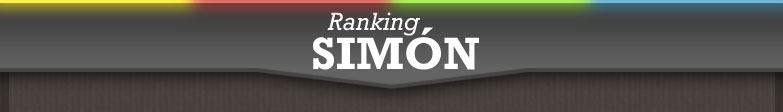
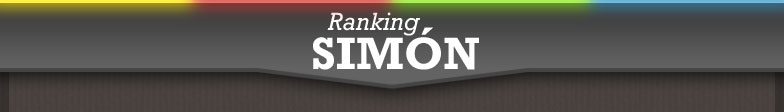
ramon y buzz

Changed region(s): [[0.3985, 0.3482, 0.613, 0.6161], [0.3985, 0.1339, 0.5517, 0.3482]]

diff --git a/ranking_ramon.php b/ranking_ramon.php
@@ -37,7 +37,7 @@
   fjs.parentNode.insertBefore(js, fjs);
 }(document, 'script', 'facebook-jssdk'));</script>
  <div>
- 	<div id="cabecera" style="background:url(https://growing-dusk-1846.herokuapp.com/images/cabecera_ramon.jpg) 0 0 no-repeat; width:784px; text-align: center;">
+ 	<div id="cabecera" style="background:url(https://growing-dusk-1846.herokuapp.com/images/cabecera_simon.jpg) 0 0 no-repeat; width:784px; text-align: center;">
 		<div style="height:112px; margin: 0 auto;"></div>
 		</div>
 	<div id="ranking" style="background:url(https://growing-dusk-1846.herokuapp.com/images/fondo_ramon.jpg) 0 0 repeat-y; width:700px; padding: 0 38px 20px 46px; ">
